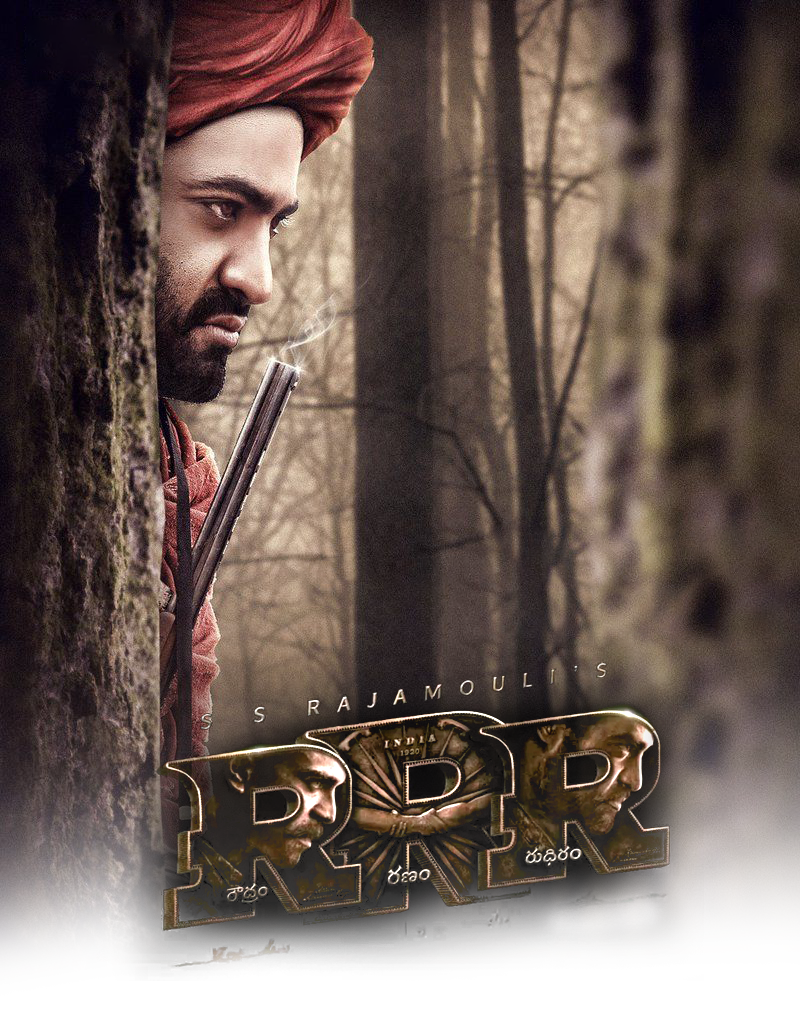
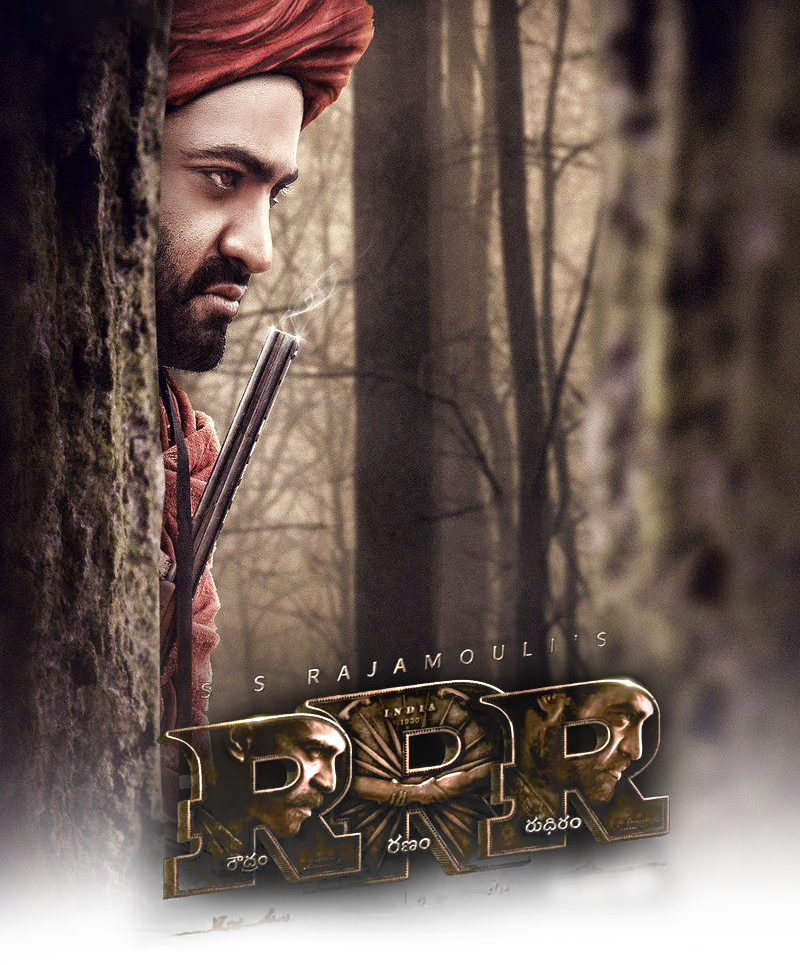
changes

diff --git a/video1.html b/video1.html
@@ -1,0 +1,196 @@
+<!DOCTYPE html>
+<html lang="en">
+
+<head>
+  <meta charset="UTF-8">
+  <meta http-equiv="X-UA-Compatible" content="IE=edge">
+  <meta name="viewport" content="width=device-width, initial-scale=1.0">
+  <title>How Social Media Is Changing the Online Shopping Experience</title>
+
+  <!--
+    - favicon
+  -->
+  <link rel="shortcut icon" type="image/png"
+    href="https://yoobbel.com/image/catalog/App%20notifications/notification-icon.png">
+
+  <!--
+    - custom css link
+  -->
+  <link rel="stylesheet" href="./assets2/css/style.css">
+
+  <!--
+    - google font link
+  -->
+  <link rel="preconnect" href="https://fonts.googleapis.com">
+  <link rel="preconnect" href="https://fonts.gstatic.com" crossorigin>
+  <link href="https://fonts.googleapis.com/css2?family=Inter:wght@200;300;400;500;600;700;800;900&display=swap"
+    rel="stylesheet">
+</head>
+
+<body class="dark-theme">
+
+  <!--
+    - #HEADER
+  -->
+
+  <header>
+
+    <div class="container" style="height: 0 !important;">
+
+      <nav class="navbar">
+
+        <a href="index.html">
+          <img style="height: 45px; width: auto;" src="img/logo_t2.png" alt="Devblog's logo" width="150"
+            class="logo-light">
+          <img style="height: 45px; width: auto;" src="assets2/images/back.png" alt="Devblog's logo" width="150"
+            class="logo-dark">
+        </a>
+
+        <!-- <div class="btn-group">
+
+
+          <button class="nav-menu-btn">
+            <ion-icon name="menu-outline"></ion-icon>
+          </button>
+
+        </div> -->
+
+        <div class="flex-wrapper">
+
+          <ul class="desktop-nav">
+
+            <li>
+              <a href="blogs.html" class="nav-link">Latest Blogs</a>
+            </li>
+
+            <li>
+              <a href="index.html" class="nav-link">About Us</a>
+            </li>
+
+            <li>
+              <a href="mailto:info@yoobbel.com" target="blank" class="nav-link">Mail Us</a>
+            </li>
+
+          </ul>
+
+          <button class="theme-btn theme-btn-desktop light">
+            <ion-icon name="moon" class="moon"></ion-icon>
+            <ion-icon name="sunny" class="sun"></ion-icon>
+          </button>
+
+        </div>
+
+        <div class="mobile-nav">
+
+          <button class="nav-close-btn">
+            <ion-icon name="close-outline"></ion-icon>
+          </button>
+
+          <div class="wrapper">
+
+            <p class="h3 nav-title">Main Menu</p>
+
+            <ul>
+              <li class="nav-item">
+                <a href="blogs.html" class="nav-link">Latest Blogs</a>
+              </li>
+
+              <li class="nav-item">
+                <a href="https://brand.yoobbel.com/" class="nav-link">About Us</a>
+              </li>
+
+              <li class="nav-item">
+                <a href="mailto:info@yoobbel.com" target="blank" class="nav-link">Mail Us</a>
+              </li>
+            </ul>
+
+          </div>
+
+          <div>
+
+            <p class="h3 nav-title">Topics</p>
+
+            <ul>
+              <li class="nav-item">
+                <a href="#" class="nav-link">Social Commerce</a>
+              </li>
+
+              <li class="nav-item">
+                <a href="#" class="nav-link">Influencer</a>
+              </li>
+
+              <li class="nav-item">
+                <a href="#" class="nav-link">Branding</a>
+              </li>
+            </ul>
+
+          </div>
+
+        </div>
+
+      </nav>
+
+    </div>
+
+  </header>
+
+
+
+
+
+  <main>
+
+    <!--
+      - #HERO SECTION
+    -->
+
+    <div class="hero">
+
+      <div class="container">
+
+        <div class="left">
+
+
+          <div class="wrapper-flex">
+
+            <!-- <div class="profile-wrapper">
+              <img src="./assets2/images/author2.png" alt="Yoobbel" width="50">
+            </div> -->
+
+          </div>
+
+        </div>
+
+
+
+        <div class="right">
+
+          <!-- <div class="pattern-bg"></div> -->
+          <!-- <img src="./assets2/images/sc1.png" alt="Yoobbel" class="hero-img"> -->
+          
+          <video width="100%" height="auto" controls controlsList="nodownload" poster=
+          "assets2/images/wap.jpg">
+            <source src="assets2/images/Comp 1.mp4" type="video/mp4">
+          </video>
+            
+          
+          
+         
+
+
+
+
+
+  <!--
+    - custom js link
+  -->
+  <script src="./assets2/js/script.js"></script>
+
+  <!--
+    - ionicon link
+  -->
+  <script type="module" src="https://unpkg.com/ionicons@5.5.2/dist/ionicons/ionicons.esm.js"></script>
+  <script nomodule src="https://unpkg.com/ionicons@5.5.2/dist/ionicons/ionicons.js"></script>
+</body>
+
+</html>

diff --git a/read blog.html b/read blog.html
@@ -166,12 +166,12 @@
         <div class="right">
 
           <!-- <div class="pattern-bg"></div> -->
-          <!-- <img src="./assets2/images/sc1.png" alt="Yoobbel" class="hero-img"> -->
+         <a href="video1.html"><img src="./assets2/images/wap.jpg" alt="Yoobbel" class="hero-img"></a>
           
-          <video width="100%" height="auto" controls controlsList="nodownload" poster=
+          <!-- <video width="100%" height="auto" controls controlsList="nodownload" poster=
           "assets2/images/wap.jpg">
             <source src="assets2/images/Comp 1.mp4" type="video/mp4">
-          </video>
+          </video> -->
             
           
           

diff --git a/index.html b/index.html
@@ -41,7 +41,7 @@
 
         <div class="hero1">
           <div style="height: auto; width:100%;">
-            <img src="assets2/images/poster1a.jpg" style="height:auto; width: 100%;" />
+            <img src="assets2/images/poster1a-min.png" style="height:auto; width: 100%;" />
             <img class="logoimg" style="height: 45px; width: auto;" src="assets2/images/logo_t3.png" alt="Devblog's logo"
               width="150" class="logo-dark">
     
